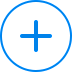
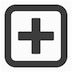
basic layout of the components

diff --git a/src/List.css b/src/List.css
@@ -1,0 +1,97 @@
+.List {
+    border-left: 1px solid #eee;
+    border-right: 1px solid #eee;
+    width: 30rem;
+  }
+  @media (max-width: 800px) {
+    .List {
+      width: 20rem;
+    }
+  }
+  .List h3 {
+    color: #999;
+    text-transform: uppercase;
+    font-size: 2rem;
+    font-family: Roboto;
+    font-weight: 300;
+    letter-spacing: 3px;
+    margin: 20px 2rem;
+  }
+  .List ul {
+    border-top: 1px solid #eee;
+    overflow-y: scroll;
+    height: calc(100vh - 72px);
+    list-style: none;
+    margin-top: 1em;
+    padding: 0;
+    width: 100%;
+    color: #999;
+  }
+  .List ul a,
+  .List ul a:active,
+  .List ul a:hover,
+  .List ul a:link,
+  .List ul a:visited {
+    color: inherit;
+    text-decoration: none;
+  }
+  .List ul>li {
+    height: 100px;
+    font-size: 90%;
+    cursor: pointer;
+    overflow: hidden;
+  }
+  .List ul>a,
+  .List ul>a * {
+    -webkit-transition: background-color .1s ease-in-out, color .1s ease-in-out;
+    -o-transition: background-color .1s ease-in-out, color .1s ease-in-out;
+    transition: background-color .1s ease-in-out, color .1s ease-in-out;
+  }
+  .List ul li .location {
+    border-top: 1px solid #eee;
+    margin: 0 2rem;
+    padding: 1rem 4px;
+  }
+  .List ul a:first-of-type li .location {
+    border-top: none;
+  }
+  .List ul#locations li:hover {
+    background-color: #064604;
+  }
+  .List ul li:hover,
+  .List ul li:hover .location * {
+    color: #fff!important;
+    text-decoration: none !important;
+  }
+  .List ul li:hover .location {
+    border-color: transparent;
+  }
+  .List ul li .location-title {
+    color: #4a4a4a;
+    font-family: Fauna One;
+    font-size: 120%;
+    font-weight: 400;
+    white-space: nowrap;
+    overflow-x: hidden;
+    -o-text-overflow: ellipsis;
+    text-overflow: ellipsis;
+  }
+  .List ul li .location-body {
+    height: 54px;
+    overflow: hidden;
+    margin-top: .5rem;
+  }
+  .List ul li .location-body * {
+    font-size: 1em!important;
+    margin: 0!important;
+    padding: 0!important;
+    color: #999!important;
+    background: none;
+    border: none;
+  }
+  .List ul li .location {
+    display: block;
+    height: 100px;
+    padding: 1em;
+    text-decoration: none
+  }

diff --git a/src/Toolbar.js b/src/Toolbar.js
@@ -1,11 +1,38 @@
 import React from "react"
+import logo from "./logo.png"
+import newIcon from "./new.png"
+import newHover from "./new-hover.png"
+import "./Toolbar.css"
 
-const Toolbar = () =>{
-return (
-    <div className ="Toolbar">
-        Toolbar
-    </div>
-);
+
+
+class Toolbar extends React.Component{
+    state = {
+
+    }
+    render(){
+        return (
+            <nav className ="Toolbar">
+
+                <div className = "logo">
+                    <img src = {logo} alt ="whereToGoLogo"/>
+                </div>
+
+                <a className ="new-location">
+                    <img src={newIcon} alt = "Add new location"/>
+                    <img className="Hovered" src={newHover} alt="Add new location"/>
+                </a>
+
+                <div className = "SignOut">
+                    <button> 
+                        Sign Out
+                        <i className ="fas fa-sign-out-alt"></i>
+                    </button>
+                </div>
+
+            </nav>
+        );
+    }
 }
 
 export default Toolbar

diff --git a/src/Toolbar.css b/src/Toolbar.css
@@ -1,0 +1,55 @@
+
+
+.Toolbar {
+    background-color: #f3f3f3;
+    padding: 0.5rem 0; 
+    display: flex; 
+    flex-direction: row;    
+    align-items: "stretch";
+  }
+
+  .Toolbar .logo {
+    
+    color: #666;
+    font-size: 3rem;
+    float: left;
+  }
+
+  .Toolbar .logo img {
+    width: 30px;
+    padding-left: 4px;
+  }
+  
+  .Toolbar a.new-location {
+    margin-top: 2rem;
+    width: 40px;
+    float:left;
+    
+  }
+
+  .Toolbar a img {
+    float:left;
+    left: 0;
+    position: relative;
+    transition: opacity 0.25s ease-in-out;
+  }
+  .Toolbar a:hover img.Hovered {
+    float:left;
+    position: relative;
+    opacity: 0;
+  }
+  
+  .Toolbar .SignOut {
+    position: absolute;
+    top:50;
+    right:0;
+  }
+  .Toolbar .SignOut button {
+    position: absolute;
+    top:50;
+    right:0;
+    outline: none;
+  }
+  .Toolbar .SignOut button i.fas {
+    font-size: 2rem;
+  }

diff --git a/src/Deets.css b/src/Deets.css
@@ -1,0 +1,46 @@
+@import url('https://fonts.googleapis.com/css?family=Raleway+Dots|Roboto');
+
+
+.Deets {
+    font-family: 'Roboto', sans-serif;
+    -ms-flex-positive: 1;
+    flex-grow: 1;
+    padding: 0 3rem;
+  }
+  .Deets .form-actions {
+    padding-top: 1rem;
+    margin-left: -2rem;
+    display: -ms-flexbox;
+    display: flex;
+    -ms-flex-line-pack: center;
+    align-content: center;
+  }
+  .Deets button {
+    border: none;
+    
+  }
+  .Deets button i.fa {
+    color: #999;
+    font-size: 2rem;
+    margin: 0;
+  }
+  .Deets form {
+    margin: 0 auto;
+    max-width: 80rem;
+  }
+  .Deets input[name=title] {
+    border: none;
+    font-size: 200%;
+    
+    color: #074216;
+    font-weight: 400;
+    width: 100%;
+    outline: none;
+  }
+  .Deets textarea {
+    border-color: #eee;
+    width: 100%;
+    height: 20%;
+    font-size: 1.3em;
+  }
+  

diff --git a/src/Deets.js b/src/Deets.js
@@ -1,9 +1,26 @@
 import React from "react"
+import "./Deets.css"
 
 const Deets = () =>{
 return (
     <div className ="Deets">
-        Deets
+        <div className="actions">
+            <button type="button">
+                <i class="far fa-minus-square"></i>
+            </button>
+        </div>
+        <form>
+            <p>
+              <input
+                type="text"
+                name="title"
+                placeholder="New Location"
+              />
+              
+              <input type="numbers" name="rating" placeholder="My Rating"/>
+            </p>
+            <textarea name="notes" placeholder="My Notes"></textarea>
+        </form>
     </div>
 );
 }

diff --git a/src/List.js b/src/List.js
@@ -1,9 +1,22 @@
 import React from "react"
+import "./List.css"
 
-const List = () =>{
+import Location from "./Location"
+
+const List = () => {
+  const locationsArray=[{id:1 ,
+  title:"l1", rating: 4 },{id:2,
+    title:"l2", rating: 4 },{id:3 ,
+      title:"l3", rating: 4 }]
+  
 return (
-    <div className ="List">
-        List
+    <div className ="List"> 
+    <h1>Locations</h1>
+      <ul id="locations">{
+        locationsArray.map(location => (<Location key ={location.id} location={location}/>
+          ))
+      }
+      </ul>
     </div>
 );
 }

diff --git a/src/Location.js b/src/Location.js
@@ -1,0 +1,22 @@
+import React from "react"
+
+
+const Location = ({location}) => {
+    
+        return(
+        <li className="Location">
+              <div className="location">
+                  <div className="location-title">
+                    {location.title}
+                  </div>
+                  <div className="location-rating">
+                    {location.rating}
+                  </div>
+              </div>
+          </li>
+        );
+}
+
+
+
+export default Location 

diff --git a/src/Main.js b/src/Main.js
@@ -5,6 +5,13 @@ import Deets from "./Deets"
 import Toolbar from "./Toolbar"
 
 class Main extends React.Component{
+    state={
+        locationsArray : [],
+
+
+    }
+
+
     render(){
         return (
             <div className="Main" >
@@ -21,7 +28,6 @@ class Main extends React.Component{
 }
 
 const style = {
-    
   display: "flex",
   height: "100vh",
   alignItems: "stretch",

diff --git a/public/index.html b/public/index.html
@@ -36,5 +36,7 @@
       To begin the development, run `npm start` or `yarn start`.
       To create a production bundle, use `npm run build` or `yarn build`.
     -->
+
+    <link rel="stylesheet" href="https://use.fontawesome.com/releases/v5.0.13/css/all.css" integrity="sha384-DNOHZ68U8hZfKXOrtjWvjxusGo9WQnrNx2sqG0tfsghAvtVlRW3tvkXWZh58N9jp" crossorigin="anonymous">
   </body>
 </html>

diff --git a/src/App.css b/src/App.css
@@ -1,6 +1,6 @@
 @import url('https://fonts.googleapis.com/css?family=Raleway+Dots|Roboto');
 
-@import url(https://cdnjs.cloudflare.com/ajax/libs/font-awesome/4.7.0/css/font-awesome.min.css);
+
 
 * {
  
